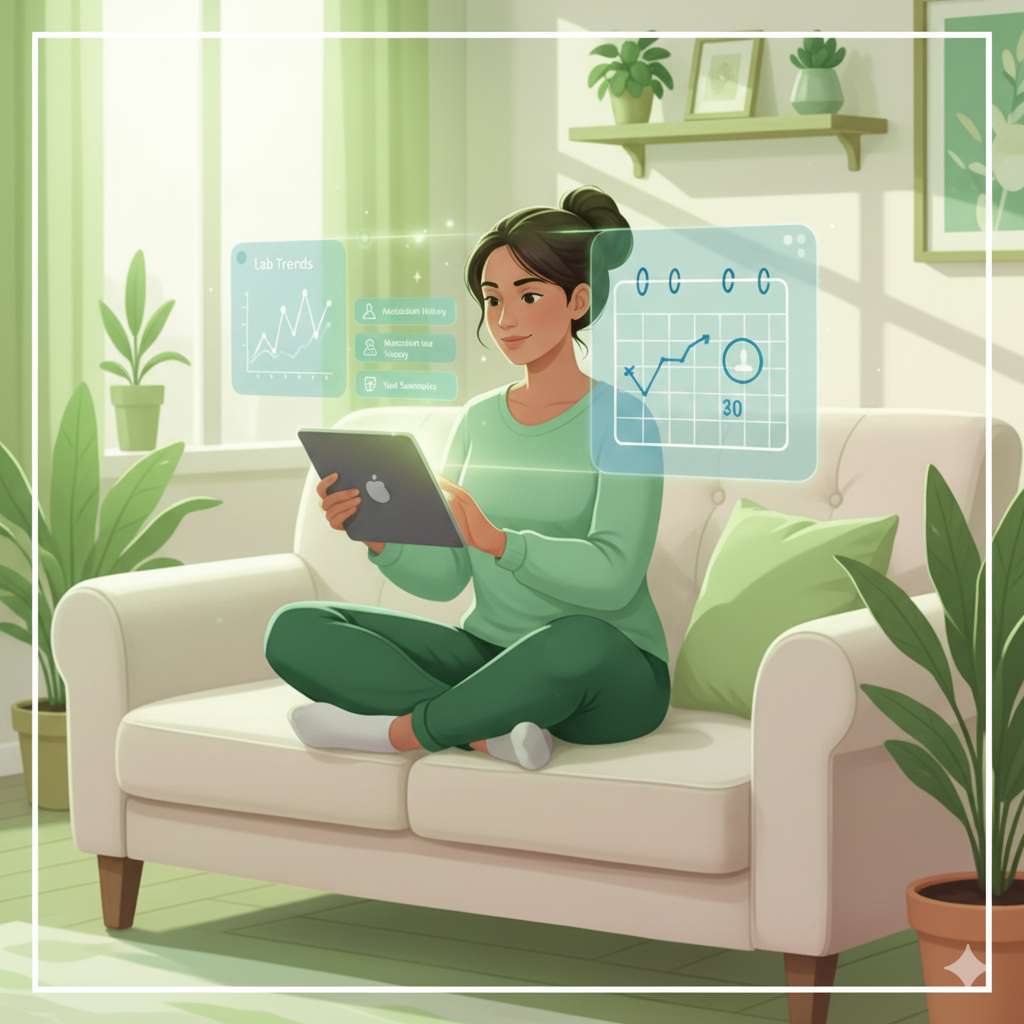
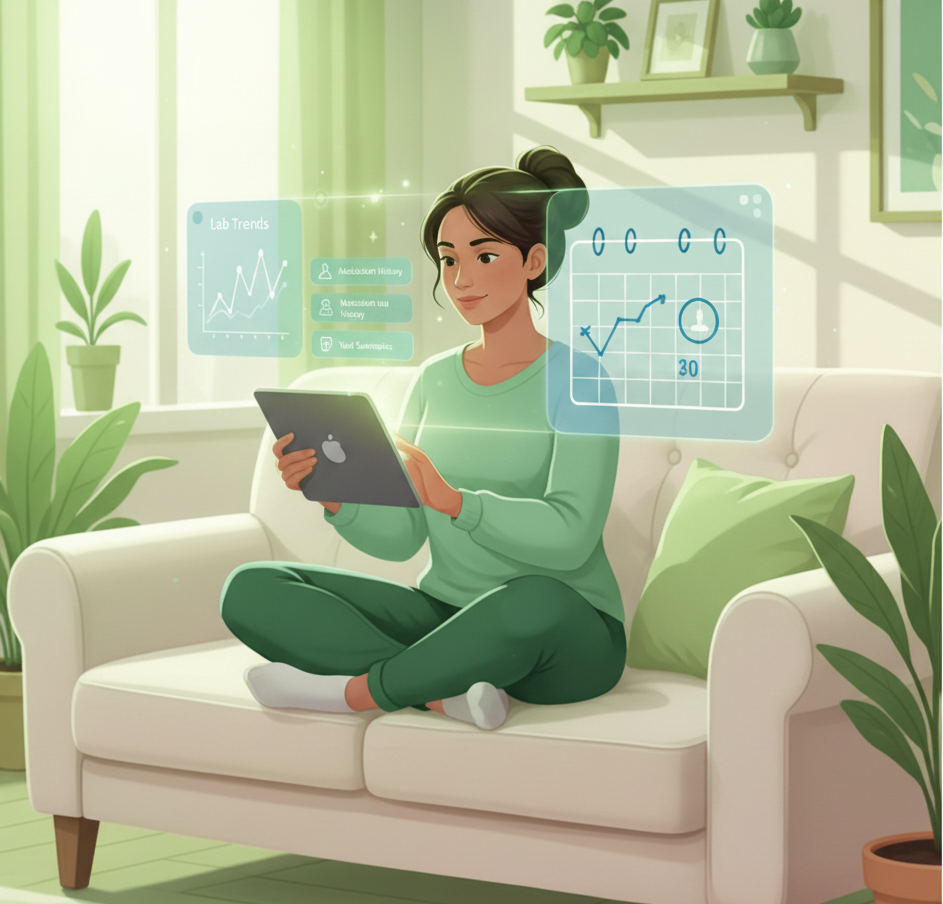
project under construction  (2)

diff --git a/lib/views/AddEvents/EventScreen.dart b/lib/views/AddEvents/EventScreen.dart
@@ -1,4 +1,5 @@
 import 'package:cloud_firestore/cloud_firestore.dart';
+import 'package:firebase_auth/firebase_auth.dart';
 import 'package:firebase_practice/View_view_Model/AddEventProvider.dart';
 import 'package:firebase_practice/View_view_Model/eventProvider.dart';
 import 'package:firebase_practice/models/eventModel.dart';
@@ -9,44 +10,24 @@ import 'package:intl/intl.dart';
 import 'package:provider/provider.dart'; // Import for date formatting
 
 
+///Event Display Screen
 class EventScreen extends StatefulWidget {
-
-
   const EventScreen({super.key});
-
   @override
   State<EventScreen> createState() => _EventScreenState();
 }
-
 class _EventScreenState extends State<EventScreen> {
-
-  Future<void> getdata ()async{
-    final prov =Provider.of<EventProvider>(context,listen: false);
-    QuerySnapshot snapshot = await FirebaseFirestore.instance.collection("Events").get();
-
-    // Load hone se pehle list clear karna zaroori hai, taaki duplicate na ho
-    prov.event.clear();
-
-    for(DocumentSnapshot doc in snapshot.docs){
-      var Eventdata = doc.data() as Map<String,dynamic>;
-      prov.event.add(EventModel.fromMap(Eventdata));
-    }
-
-    prov.setevent(prov.event);
-  }
 
   @override
   void initState() {
     // TODO: implement initState
     super.initState();
-    getdata();
+    WidgetsBinding.instance.addPostFrameCallback((_) {
+      Provider.of<EventProvider>(context, listen: false).getdata();
+    });
   }
-
   @override
   Widget build(BuildContext context) {
-
-
-
     final provider= Provider.of<IsAdding>(context);
     bool isadding = provider.isadding;
     return Scaffold(
@@ -77,18 +58,18 @@ class _EventScreenState extends State<EventScreen> {
                   EventModel event = value.event[index];
                   String dateString = event.date == null
                       ? 'No Date'
-                      : DateFormat.yMMMd().format(event.date!);
+                      : event.date.toString();
 
                   // Time
                   // TimeOfDay.format(context) is correct here for display
                   String timeString = event.time == null
                       ? 'No Time'
-                      : event.time!.format(context).toString();
+                      : event.time.toString();
 
                   return ListTile(
                     title: Text(event.Event.toString()),
                     // ✅ FIX: List item ki date aur time dikhayein
-                    subtitle: Text("| $timeString"),
+                    subtitle: Text("$dateString| $timeString"),
                   );
 
                 },
@@ -107,6 +88,7 @@ class _EventScreenState extends State<EventScreen> {
 }
 
 /// A stateful widget that manages its own edit/display state.
+/// ADD Event Screen and Manage date time
 class EventCard extends StatefulWidget {
   const EventCard({super.key});
 
@@ -157,8 +139,6 @@ class _EventCardState extends State<EventCard> {
     }
   }
 
-
-
   /// Shows the time picker dialog.
   Future<void> _pickTime(BuildContext context) async {
     final eventProvider =Provider.of<EventProvider>(context,listen: false);
@@ -170,8 +150,6 @@ class _EventCardState extends State<EventCard> {
       eventProvider.setTime(picked);
     }
   }
-
-
 
   void addEvent(EventModel event,BuildContext context)async{
      FirebaseFirestore db= FirebaseFirestore.instance;
@@ -189,9 +167,6 @@ class _EventCardState extends State<EventCard> {
          Utiles().toastMessage(e.toString());
        }
   }
-
-
-
   @override
   Widget build(BuildContext context) {
     return
@@ -259,38 +234,59 @@ class _EventCardState extends State<EventCard> {
               const Divider(),
               SizedBox(height: 8,),
 
-              ElevatedButton(onPressed: (){
-                // 2. Data collect karen
-                String eventTitle = _textController.text.trim();
-                DateTime? selectedDate = value.date;
-                TimeOfDay? selectedTime = value.time;
+              ElevatedButton(
+                onPressed: () {
+                  // 1. Data collect karen
+                  String eventTitle = _textController.text.trim();
 
+                  // Provider se DateTime aur TimeOfDay le rahe hain
+                  DateTime? selectedDate = value.date;
+                  TimeOfDay? selectedTime = value.time;
 
+                  // Check validation
+                  if (eventTitle.isEmpty || selectedDate == null || selectedTime == null) {
+                    Utiles().toastMessage("Please fill all details!");
+                    return;
+                  }
 
-                if (eventTitle.isEmpty || selectedDate == null || selectedTime == null) {
-                  Utiles().toastMessage("Please fill all details!");
-                  return;
-                }
+                  // 1. Current User ki ID nikalein
+                  User? user = FirebaseAuth.instance.currentUser;
 
-                EventModel newEvent = EventModel(
-                  eventTitle,
-                  selectedDate,
-                  selectedTime,
-                );
+                  if (user == null) {
+                    Utiles().toastMessage("User not logged in!");
+                    return;
+                  }
 
-                // 5. addEvent ko call karein (formatted time string ke saath)
-                // Ab addEvent ko do arguments chahiye: EventModel aur formattedTime
-                addEvent(newEvent,context);
+                  // 2. CONVERSION (Yahan magic hoga)
+                  // DateTime ko String banaya (e.g., "Nov 25, 2025")
+                  String formattedDate = DateFormat.yMMMd().format(selectedDate);
 
-                   //ye even screen ka logic ha
-                final provider= Provider.of<IsAdding>(context,listen: false);
-                provider.setisAdding(false);
+                  // TimeOfDay ko String banaya (e.g., "8:30 PM")
+                  String formattedTime = selectedTime.format(context);
 
-              },
+                  // 3. Model Create (Ab hum String pass kar rahe hain)
+                  EventModel newEvent = EventModel(
+                    eventTitle,
+                    formattedDate, // String
+                    formattedTime, // String
+                      userId:user.uid,
+                  );
 
-                  style: ButtonStyle(backgroundColor: MaterialStateProperty.all<Color>(Colors.green),
-                  ),
-                  child:Text("Save",style: TextStyle(color: textColor,fontSize: 18),)),
+                  // 4. Save to Firebase
+                  addEvent(newEvent, context);
+
+                  // 5. Close screen / logic
+                  final provider = Provider.of<IsAdding>(context, listen: false);
+                  provider.setisAdding(false);
+                },
+                style: ButtonStyle(
+                  backgroundColor: MaterialStateProperty.all<Color>(Colors.green),
+                ),
+                child: Text(
+                  "Save",
+                  style: TextStyle(color: textColor, fontSize: 18),
+                ),
+              ),
             ],
           ),
         ),

diff --git a/lib/models/eventModel.dart b/lib/models/eventModel.dart
@@ -1,60 +1,27 @@
-import 'package:flutter/material.dart';
-
-class EventModel{
-  DateTime? date;
-  TimeOfDay? time;
+class EventModel {
   String Event;
+  String? date; // Ab ye String hai
+  String? time; // Ab ye String hai
+  String? userId;
+  EventModel(this.Event, this.date, this.time,{this.userId});
 
-  EventModel(this.Event,this.date,this.time);
-
-  static toMap(EventModel event,BuildContext context){
-   return {
-     "Event":event.Event,
-     "Date":event.date?.toIso8601String(),
-     "Time":event.time?.format(context),
-   };
-
+  // Map mein convert karte waqt simple strings jayenge
+  static Map<String, dynamic> toMap(EventModel event,  context) {
+    return {
+      "Event": event.Event,
+      "Date": event.date,
+      "Time": event.time,
+      "userId": event.userId,
+    };
   }
 
-// EventModel class mein:
-  factory EventModel.fromMap(Map<String ,dynamic> map){
-
-    // Date Parsing: ISO String ko DateTime mein convert karna
-    DateTime? parsedDate;
-    if (map["Date"] != null && map["Date"] is String) {
-      try {
-        parsedDate = DateTime.parse(map["Date"] as String);
-      } catch (e) {
-        // Handle error if date string is invalid
-      }
-    }
-
-    // Time Parsing: String ko TimeOfDay mein convert karna (Yeh thoda mushkil hai)
-    TimeOfDay? parsedTime;
-    if (map["Time"] != null && map["Time"] is String) {
-      // Assuming format is like "8:47 AM" or "5:30 PM"
-      try {
-        // Logic to extract hours and minutes from the time string (e.g., "8:47 AM")
-        // Example:
-        // final format = DateFormat.jm(); // requires Context to work, so simple parsing is better
-
-        // Simple parsing (requires a helper utility for robustness)
-        // For now, setting to null if complex parsing is not implemented:
-        // You need proper logic here. A basic way is to use split and check AM/PM.
-        // Since this requires a lot of code, we will assume you use a utility method:
-
-        // For simplicity in this fix, we will assume TimeOfDay is not null if string exists
-        // However, TIME PARSING is critical and must be robustly handled.
-      } catch (e) {
-        // Handle error
-      }
-    }
-
+  // Firebase se data late waqt direct String uthayenge
+  factory EventModel.fromMap(Map<String, dynamic> map) {
     return EventModel(
-        map["Event"] as String,
-        parsedDate,
-        null // ⚠ TIME PARSING: Aapko Time string se TimeOfDay banane ka robust tareeqa yahan likhna hoga.
+      map["Event"],
+      map["Date"], // Direct String
+      map["Time"], // Direct String
+      userId: map["userId"],
     );
   }
-
 }

diff --git a/lib/View_view_Model/eventProvider.dart b/lib/View_view_Model/eventProvider.dart
@@ -1,3 +1,5 @@
+import 'package:cloud_firestore/cloud_firestore.dart';
+import 'package:firebase_auth/firebase_auth.dart';
 import 'package:flutter/foundation.dart';
 import 'package:flutter/material.dart';
 
@@ -14,6 +16,30 @@ class EventProvider with ChangeNotifier{
   TimeOfDay? get time => _selectedTime;
    bool get isEditing => _isEditing;
   List get event => _event;
+
+  Future<void> getdata ()async{
+
+    // 1. Current user ID lein
+    String? uid = FirebaseAuth.instance.currentUser?.uid;
+
+    if (uid == null) return; // Agar user login nahi hai to wapis chale jayen
+
+    // 2. Query mein 'where' lagayen
+    QuerySnapshot snapshot = await FirebaseFirestore.instance
+        .collection("Events")
+        .where('userId', isEqualTo: uid) // ✅ Sirf is user ka data layega
+        .get();
+    // Load hone se pehle list clear karna zaroori hai, taaki duplicate na ho
+    event.clear();
+
+    for(DocumentSnapshot doc in snapshot.docs){
+      var Eventdata = doc.data() as Map<String,dynamic>;
+      event.add(EventModel.fromMap(Eventdata));
+    }
+    notifyListeners();
+    setevent(event);
+
+  }
 
   void setevent(event){
     _event=event;

diff --git a/lib/views/HomeScreen/homescreen.dart b/lib/views/HomeScreen/homescreen.dart
@@ -1,3 +1,4 @@
+import 'package:firebase_practice/View_view_Model/eventProvider.dart';
 import 'package:firebase_practice/tips_Screen.dart';
 import 'package:firebase_practice/views/AddEvents/EventScreen.dart';
 import 'package:firebase_practice/views/Upload_Docs/Viewallfiles.dart';
@@ -190,7 +191,8 @@ class _HomeScreenState extends State<HomeScreen> {
                        case 4:
                          Navigator.push(
                              context,
-                             MaterialPageRoute(builder: (context) =>  EventScreen())
+                             MaterialPageRoute(builder: (context) =>  EventScreen(),
+                             ),
                          ) ;
                          break;
                        case 5:
